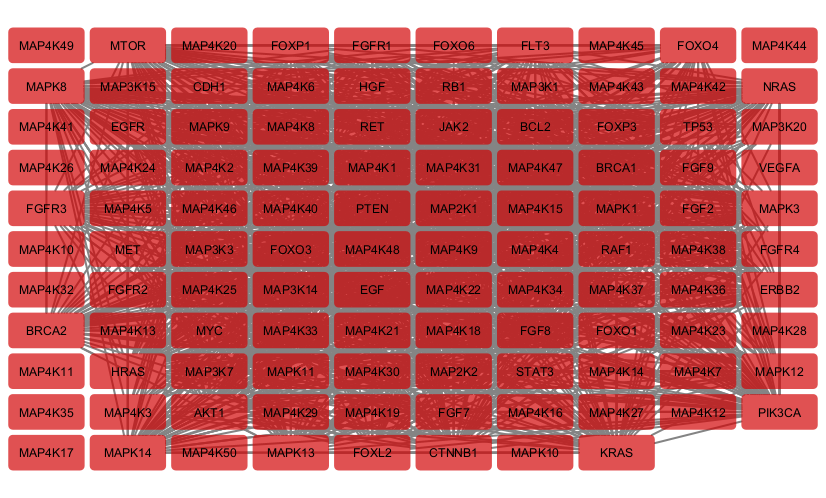
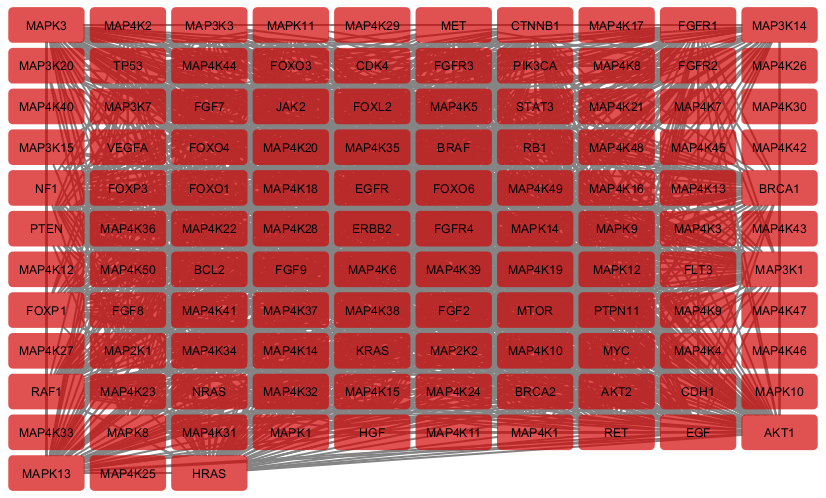
formatted code a bit

diff --git a/templates/index.html b/templates/index.html
@@ -18,12 +18,12 @@
         <h2>Select a protein:</h2>
         <form action="/" method="get">
             {% for protein in proteins %}
-                <button type="submit" name="selected_protein" value="{{ protein }}" {% if protein == selected_protein %}disabled{% endif %}>{{ protein }}</button>
+                <button type="submit" name="selectedProtein" value="{{ protein }}" {% if protein == selectedProtein %}disabled{% endif %}>{{ protein }}</button>
             {% endfor %}
         </form>
         <form action="/" method="get">
-            <button type="submit" name="selected_protein" value="all" {% if selected_protein == 'all' %}disabled{% endif %}>All Proteins</button>
-            <button type="submit" name="selected_protein" value="prune" {% if selected_protein == 'prune' %}disabled{% endif %}>Pruned Proteins</button>
+            <button type="submit" name="selectedProtein" value="all" {% if selectedProtein == 'all' %}disabled{% endif %}>All Proteins</button>
+            <button type="submit" name="selectedProtein" value="prune" {% if selectedProtein == 'prune' %}disabled{% endif %}>Pruned Proteins</button>
         </form>
     </div>
     <div>

diff --git a/flaskStable.py b/flaskStable.py
@@ -6,9 +6,8 @@ import networkx as nx
 app = Flask(__name__)
 app.secret_key = 'KSUBigDataGroup3'
 
-
 # Default array of proteins
-default_proteins = [
+defaultProteins = [
     "TP53", "EGFR", "AKT1", "MAPK1", "PTEN", "MYC", "CDH1", "RB1", "JAK2",
     "BCL2", "VEGFA", "KRAS", "PIK3CA", "STAT3", "BRCA1", "BRCA2", "ERBB2", "MTOR",
     "FLT3", "CTNNB1", "EGF", "FGFR1", "FGF2", "FGF7", "FGFR2", "FGF8", "FGFR3",
@@ -26,7 +25,7 @@ default_proteins = [
 setupCompleted = False
 
 # Function to retrieve PPI data from STRING API
-def get_ppi_data(proteins, species="9606", confidence=0.1, save_to_file=True):
+def getPpiData(proteins, species="9606", confidence=0.1, saveToFile=True):
     url = "https://string-db.org/api/tsv/network"
     params = {
         "identifiers": "%0d".join(proteins),
@@ -37,15 +36,15 @@ def get_ppi_data(proteins, species="9606", confidence=0.1, save_to_file=True):
     }
     response = requests.post(url, params=params)
     response.raise_for_status()
-    tsv_data = response.text
+    tsvData = response.text
     
-    if save_to_file:
+    if saveToFile:
         with open('ppi_data.tsv', 'w') as f:
-            f.write(tsv_data)
+            f.write(tsvData)
     
-    return tsv_data
+    return tsvData
 
-def visualize_network(G, selectedProtein):
+def visualizeNetwork(G, selectedProtein):
     p4c.create_network_from_networkx(G, title='baseNetwork')
     p4c.set_node_color_default(new_color='#D20103')
     p4c.set_node_fill_opacity_default(new_opacity=175)
@@ -60,10 +59,8 @@ def visualize_network(G, selectedProtein):
         p4c.layout_network(layout_name='grid', network=pruneSuid)
     else:
         nodeSUID = p4c.node_name_to_node_suid(selectedProtein, network=suid)
-        #print(f'nodeSUID = p4c.node_name_to_node_suid(selectedProtein){nodeSUID}')
         p4c.select_nodes(nodeSUID, network=suid)
         p4c.set_node_color_bypass(nodeSUID, network=suid, new_colors='#0DB801')
-        #print(f'p4c.get_selected_nodes(){p4c.get_selected_nodes()}')
         p4c.select_edges_adjacent_to_selected_nodes(network=suid)
         p4c.create_subnetwork(edges='selected', nodes='selected', nodes_by_col='COMMON',subnetwork_name='selectedNetwork', network=suid)
         selectedSuid = p4c.get_network_suid()
@@ -78,8 +75,8 @@ def visualize_network(G, selectedProtein):
 def setup():
     global setupCompleted
     if not setupCompleted:
-        session['proteins'] = default_proteins
-        setup_completed = True
+        session['proteins'] = defaultProteins
+        setupCompleted = True
 
 
 @app.route('/')
@@ -97,7 +94,7 @@ def index():
                 proteins.append(enteredProtein.strip())
         session['proteins'] = proteins
     # Get PPI data
-    ppi_data = get_ppi_data(session['proteins'])
+    ppiData = getPpiData(session['proteins'])
 
     # Create a graph
     G = nx.Graph()
@@ -106,7 +103,7 @@ def index():
     G.add_nodes_from(session['proteins'])
         
     # Add edges based on PPI data
-    for line in ppi_data.split("\n"):
+    for line in ppiData.split("\n"):
         if line.startswith("#"):
             continue
         cols = line.strip().split("\t")
@@ -117,8 +114,8 @@ def index():
             G.add_edge(protein1, protein2)
 
     # Visualize the network using Cytoscape and the grid layout algorithm
-    selected_protein = request.args.get('selected_protein', default='all') 
-    visualize_network(G, selected_protein)
+    selectedProtein = request.args.get('selectedProtein', default='all') 
+    visualizeNetwork(G, selectedProtein)
 
     return render_template('index.html', proteins=session['proteins'], G=G)
 
